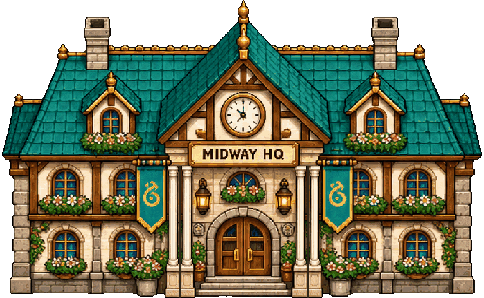
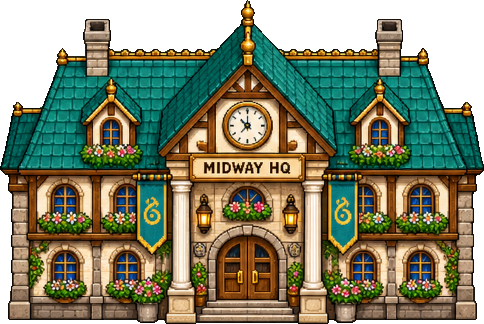
Art: set 03 buildings keep their true proportions, HQ drawn in HD (#17)
The set 03 PNGs had been resized to each old sprite's size, which
stretched them (library and gazebo sideways, data center upward). The HQ
canvas is 242x150, so its 484x298 PNG was not an exact 2x and fell back
to the blurry downscaled canvas.

- Rebuild the six PNGs from the source sheet with uniform scaling: width
  = 2x the canvas width, height follows the art's own aspect.
- ART_FITW: for these names artPaint keeps the canvas width, takes the
  PNG height and shifts each object so its base stays put (collision and
  layout keys unchanged).
- Skip the data center LED blink when PNG art is loaded (its spots match
  the code-drawn sprite only).

Claude-Session: https://claude.ai/code/session_01WiWaugQktC9ZKwZ4v8uE5S

diff --git a/game/index.html b/game/index.html
@@ -383,9 +383,14 @@ const rnd=()=>{seed^=seed<<13;seed^=seed>>>17;seed^=seed<<5;return (seed>>>0)/42
 function trng(a,b,k){let s=(Math.imul(a,73856093)^Math.imul(b,19349663)^Math.imul(k,83492791))>>>0;return()=>{s=s+0x6D2B79F5|0;let t=Math.imul(s^s>>>15,1|s);t=t+Math.imul(t^t>>>7,61|t)^t;return((t^t>>>14)>>>0)/4294967296}}
 // PNG art overrides: artReg(name, canvas) marks a code-drawn sprite as replaceable; game/assets/manifest.json maps
 // name -> PNG. When a PNG loads it is painted into every registered canvas (same size), so all users update in place.
-function artReg(n,c){if(!n)return c;const m=artReg.m||(artReg.m={});(m[n]||(m[n]=[])).push(c);const im=artReg.img&&artReg.img[n];if(im)artPaint(c,im);return c}
+function artReg(n,c){if(!n)return c;c._artN=n;const m=artReg.m||(artReg.m={});(m[n]||(m[n]=[])).push(c);const im=artReg.img&&artReg.img[n];if(im)artPaint(c,im);return c}
 // paint a PNG into a sprite canvas: same size → 1:1; otherwise keep aspect, bottom-centred (ground line stays put)
-function artPaint(c,img){const g=c.getContext('2d');g.clearRect(0,0,c.width,c.height);g.imageSmoothingEnabled=false;g.save();if(c._artFlip){g.translate(c.width,0);g.scale(-1,1)}
+// ART_FITW: sprites whose PNG keeps its own proportions: the canvas keeps its width and takes the PNG's height; every object
+// using it moves up/down so its base (ground line) stays put. Collision and layout keys (x,base,width) are unchanged.
+var ART_FITW={hq:1,library:1,museum:1,hall_of_fame:1,data_center:1,sala:1};
+function artPaint(c,img){if(ART_FITW[c._artN]&&!c._artFlip){const m=img.width/c.width,nh=Math.round(img.height/m);
+    if(m>=1&&m===Math.round(m)&&nh!==c.height){const dy=nh-c.height;c.height=nh;try{for(const o of OBJ)if(o.img===c)o.y-=dy}catch(e){}}}
+  const g=c.getContext('2d');g.clearRect(0,0,c.width,c.height);g.imageSmoothingEnabled=false;g.save();if(c._artFlip){g.translate(c.width,0);g.scale(-1,1)}
   const k=Math.min(c.width/img.width,c.height/img.height),w=Math.round(img.width*k),h=Math.round(img.height*k);g.drawImage(img,Math.round((c.width-w)/2),c.height-h,w,h);g.restore()
   // HD art (exactly 2x/3x/... the sprite): keep the full-res image for the zoomed world draw (the canvas stays the logical size)
   const m=img.width/c.width;c._hd=(!c._artFlip&&m>=2&&m===Math.round(m)&&img.height===c.height*m)?img:null}
@@ -1184,7 +1189,7 @@ let SCN=null;
 function solidAt(px,py){const s=SCN,tx=Math.floor(px/T),ty=Math.floor(py/T);if(tx<0||ty<0||tx>=s.cols||ty>=s.rows)return true;return s.sol[ty*s.cols+tx]===1}
 function blocked(px,py){return solidAt(px-5,py-4)||solidAt(px+5,py-4)||solidAt(px-5,py)||solidAt(px+5,py)}
 const dirTo=(dx,dy)=>Math.abs(dx)>Math.abs(dy)?(dx<0?1:2):(dy<0?3:0);
-dcObj.dyn=(sx,sy)=>{for(const l of DC_LEDS)if(Math.sin(t*l.s+l.p)>-.2)R(ctx,l.c,sx+l.x,sy+l.y,1,1)};
+dcObj.dyn=(sx,sy)=>{if(artImg('data_center'))return;/* LED spots match the code-drawn sprite only */for(const l of DC_LEDS)if(Math.sin(t*l.s+l.p)>-.2)R(ctx,l.c,sx+l.x,sy+l.y,1,1)};
 antObj.dyn=(sx,sy)=>{if(Math.sin(t*3)>0){ctx.fillStyle='rgba(255,90,78,.3)';ctx.fillRect(sx+8,sy,6,6);R(ctx,'#FF5A4E',sx+10,sy+2,2,2)}};
 wmObj.dyn=(sx,sy)=>{const hx=sx+39,hy=sy+33,a0=t*((S.millBoost||0)>t?2.4:1);
   for(let b=0;b<4;b++){const a=a0+b*Math.PI/2,ca=Math.cos(a),sa=Math.sin(a),pc=Math.cos(a+Math.PI/2),ps=Math.sin(a+Math.PI/2);

diff --git a/CLAUDE.md b/CLAUDE.md
@@ -69,7 +69,8 @@ Sprites are drawn in code, but any canvas wrapped in `artReg('name', makeX())` c
 `game/assets/manifest.json` (`{"name": "set/file.png"}`). The PNG is painted into the existing canvas, so it **must keep the
 original sprite size** (positions, collisions and `layout.json` stay valid). `?art=0` shows the code-drawn art for comparison.
 **HD (2x) art:** ground chunks are painted at 2x when the HD grass set (`grass_1`, assets/T01_grass, 32px tiles) is present, so 32px PNG tiles keep full detail; new art should be 2x the sprite size (see the HD prompt packs).
-Object sprites whose PNG is an exact integer multiple (2x, 3x…) of the canvas keep the full-res image as `canvas._hd` (set in `artPaint`); the world draw lists (town + interior) draw `_hd` at the logical size, so HD buildings stay sharp at zoom. Flipped art (`artRegFlip`) and baked canvases (interior ground, minimap) still use the downscaled canvas.
+Object sprites whose PNG is an exact integer multiple (2x, 3x…) of the canvas keep the full-res image as `canvas._hd` (set in `artPaint`); the world draw lists (town + interior) draw `_hd` at the logical size, so HD buildings stay sharp at zoom. Flipped art (`artRegFlip`) and baked canvases (interior ground, minimap) still use the downscaled canvas. The `_hd` path needs the PNG to be an **exact** multiple in both axes (check the real canvas size: `makeHQ` is 242×150, not 242×149).
+**`ART_FITW`** (next to `artPaint`): names whose PNG keeps its own proportions; the canvas keeps its width, takes the PNG's height, and every object using it shifts so its base stays put. Use it when new art has a different aspect than the code sprite, instead of stretching the PNG to the old size (set 03 buildings do this).
 **Corner autotiles** (`CORNER_SETS`, `paintCorners`): HD terrain sets named `<name>_<mask>.png` (mask bits NW=1 NE=2 SW=4 SE=8 = neighbouring tile is that ground type, `_15b/c/d` fill variants) are drawn on tile vertices (half-tile offset) over a grass base, giving rounded organic edges. Add a new terrain by appending `{v:<ground type>,n:'<name>'}`.
 **HD terrain pass** (`hdTerrain`, called from `paintChunk`): per-pixel curved river banks (wet sand, pebbles, foam, depth), bulging Voronoi rock cliffs with grass lips and contact shadows, east/west terrace slopes, smooth terrace light, curved sand/path ↔ grass borders (copies texture from the neighbouring tile). Cliffs come from a smoothed height contour (blurred `HGT` sampled with wobble → `LV` level map, column scan → face depth `CD`, side slopes `SD`), so terrace edges curve; collision stays tile-based. Bridges are timber deck decals built per crossing in `worldRebuild` (step 7b); `straight()` re-routes each water crossing as a straight run so the bridge lines up with the road. East/west terrace edges are solid rock side faces (`CLIFF=5`, SOL, no hedges); roads crossing them stay open as ramps. Stairs (`CLIFF` 2/4) are drawn in `paintChunk` after the decals. Works per world pixel (cost ≈ 10 ms per chunk); keep it cheap.
 Ground tiles are separate: `TILE_ART` maps ground type → `tile_<name>` (+ `_edge_<nw|n|…|inner_se>` where it meets grass), drawn by `tileArt()` in `paintTile`; cliffs/stairs stay code-drawn.
